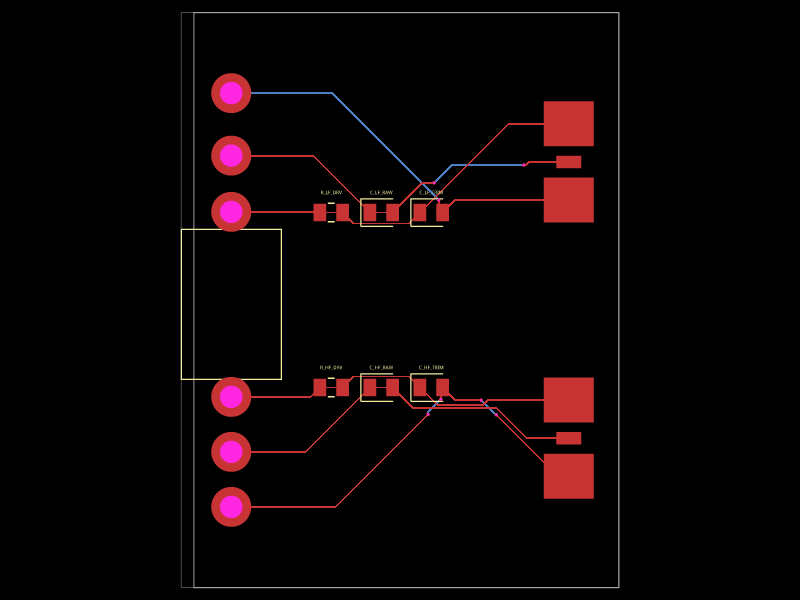
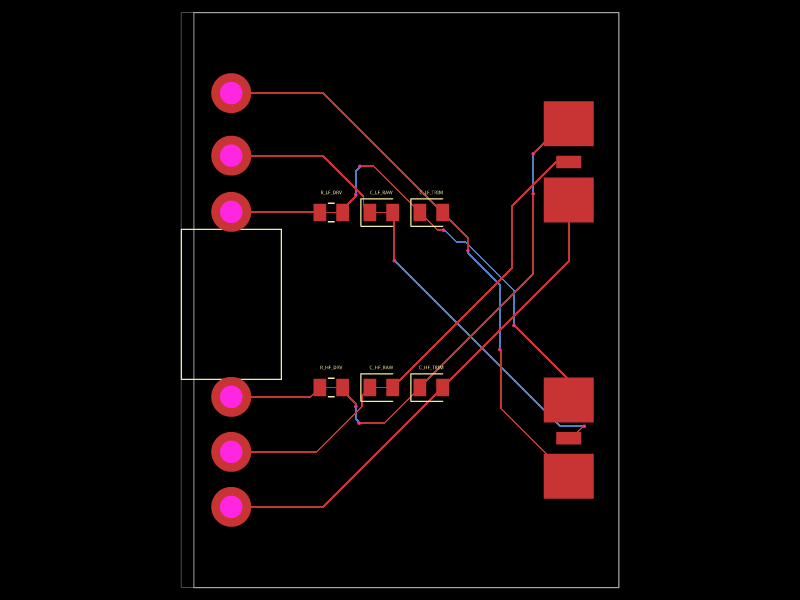
Swap LF/HF connector positions to match PM5 mating; traces now cross over correctly

diff --git a/adapter/adapter.tsx b/adapter/adapter.tsx
@@ -43,8 +43,12 @@ const RDV4_X = -(BOARD_W / 2) + 3; // mm, RDV4 column ~3 mm from left edge  TODO
 const CONN_PITCH = 22.1; // mm, LF↔HF connector centre pitch  [PM5 drawing]
 const CONN_X = BOARD_W / 2 - 4; // mm, right edge
 const CONN_ROTATION = 270; // deg, so the +Y mating face points +X (off-board)
-const LF_Y = CONN_PITCH / 2; // ≈ +11 (upper)
-const HF_Y = -CONN_PITCH / 2; // ≈ -11 (lower)
+// The adapter plugs into the PM5 flipped, so the connectors are MIRRORED
+// relative to the RDV4 column (which has the LF trio on top, HF on bottom): the
+// LF connector sits LOW and the HF connector HIGH. The per-band traces then
+// cross over each other to reach their RDV4 trios — the intended crossover.
+const LF_CONN_Y = -CONN_PITCH / 2; // ≈ -11 (lower)  — mates PM5 LF
+const HF_CONN_Y = CONN_PITCH / 2; // ≈ +11 (upper)  — mates PM5 HF
 // Trim passives sit mid-board (x offsets: R_DRV, C_RAW, C_TRIM), per-band Y.
 const PASSIVE_X = [-6, -2, 2];
 
@@ -145,8 +149,8 @@ export const Adapter = () => (
 		    mounting holes needed). */}
 		<Rdv4Interface name={RDV4} pcbX={RDV4_X} pcbY={0} schX={8} schY={0} />
 
-		<Band band="LF" connY={LF_Y} passiveY={7} />
-		<Band band="HF" connY={HF_Y} passiveY={-7} />
+		<Band band="LF" connY={LF_CONN_Y} passiveY={7} />
+		<Band band="HF" connY={HF_CONN_Y} passiveY={-7} />
 	</board>
 );
 
